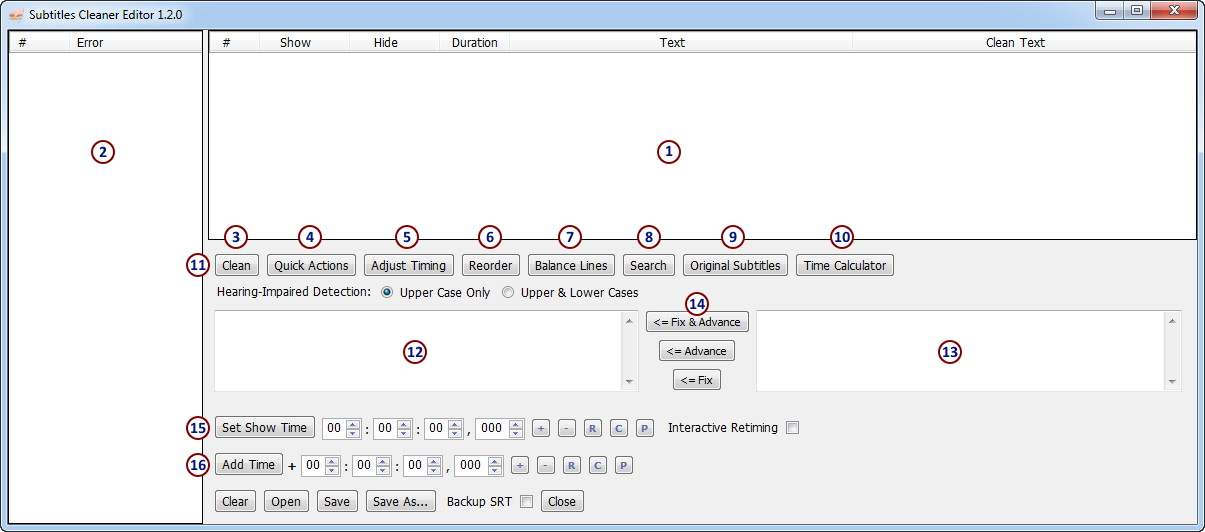
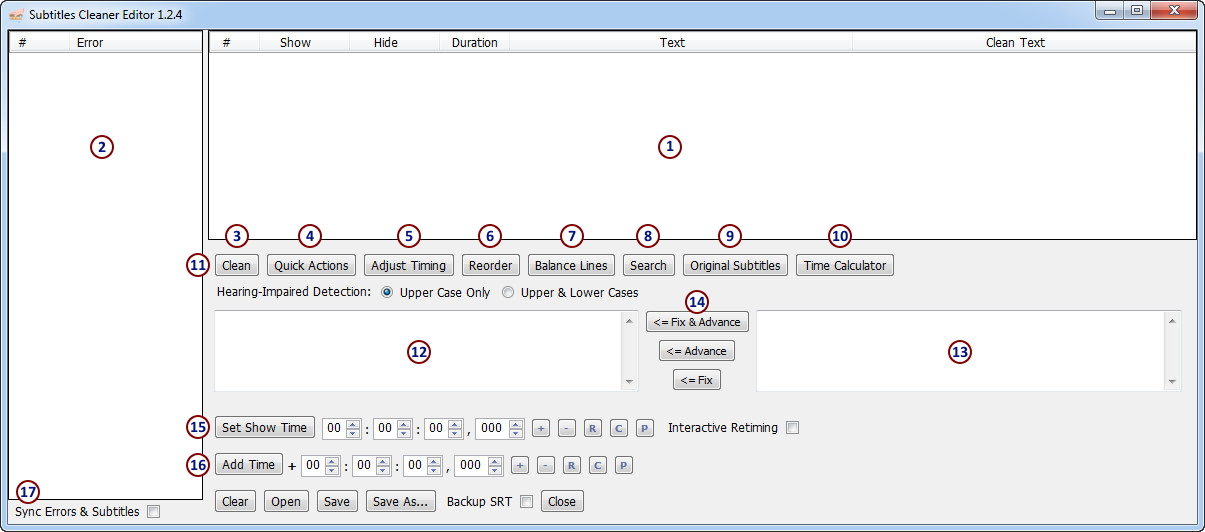
add Sync Errors & Subtitles

diff --git a/SubtitlesCleanerEditor/SubtitlesCleanerEditorForm.cs b/SubtitlesCleanerEditor/SubtitlesCleanerEditorForm.cs
@@ -328,6 +328,19 @@ namespace SubtitlesCleanerEditor
             SelectGVRow(row);
         }
 
+        private void SelectErrorRowByNum(int num)
+        {
+            foreach (DataGridViewRow row in lstErrors.Rows)
+            {
+                ErrorRow errorRow = row.DataBoundItem as ErrorRow;
+                if (errorRow.Num == num)
+                {
+                    SelectGVRow(row);
+                    break;
+                }
+            }
+        }
+
         private EditorRow GetEditorRowAt(int index)
         {
             DataGridViewRow row = lstEditor.Rows[index];
@@ -367,6 +380,39 @@ namespace SubtitlesCleanerEditor
             DataGridViewRow row = GetSelectedErrorGVRow();
             if (row != null)
                 return row.DataBoundItem as ErrorRow;
+            return null;
+        }
+
+        private ErrorRow SelectClosestErrorRow(int num)
+        {
+            foreach (DataGridViewRow row in lstErrors.Rows)
+            {
+                ErrorRow errorRow = row.DataBoundItem as ErrorRow;
+                if (errorRow.Num == num)
+                {
+                    SelectGVRow(row);
+                    return errorRow;
+                }
+                else if (errorRow.Num > num)
+                {
+                    SelectGVRow(row);
+                    return errorRow;
+                }
+            }
+
+            return SelectFirstErrorRow();
+        }
+
+        private ErrorRow SelectFirstErrorRow()
+        {
+            if (lstErrors.Rows != null && lstErrors.Rows.Count > 0)
+            {
+                DataGridViewRow row = lstErrors.Rows[0];
+                ErrorRow errorRow = row.DataBoundItem as ErrorRow;
+                SelectGVRow(row);
+                return errorRow;
+            }
+
             return null;
         }
 
@@ -521,6 +567,9 @@ namespace SubtitlesCleanerEditor
                 previousSelectedRow.DefaultCellStyle.Font = new Font("Tahoma", 9F, FontStyle.Regular);
             if (CurrentSelectedRow != null)
                 CurrentSelectedRow.DefaultCellStyle.Font = new Font("Tahoma", 8F, FontStyle.Bold);
+
+            if (chkSyncErrorsAndSubtitles.Checked)
+                SyncErrorsAndSubtitles(editorRow);
         }
 
         private void lstErrors_SelectionChanged(object sender, EventArgs e)
@@ -536,6 +585,43 @@ namespace SubtitlesCleanerEditor
                 previousErrorSelectedRow.DefaultCellStyle.Font = new Font("Tahoma", 9F, FontStyle.Regular);
             if (CurrentErrorSelectedRow != null)
                 CurrentErrorSelectedRow.DefaultCellStyle.Font = new Font("Tahoma", 8F, FontStyle.Bold);
+
+            if (chkSyncErrorsAndSubtitles.Checked)
+                SyncErrorsAndSubtitles(GetSelectedErrorRow());
+        }
+
+        #endregion
+
+        #region Sync Errors And Subtitles
+
+        private void SyncErrorsAndSubtitles(EditorRow editorRow)
+        {
+            if (editorRow == null)
+                return;
+
+            int num = editorRow.Num;
+
+            ErrorRow errorRow = GetSelectedErrorRow();
+            if (errorRow != null && errorRow.Num == num)
+                return;
+
+            SelectErrorRowByNum(num);
+        }
+
+        private void SyncErrorsAndSubtitles(ErrorRow errorRow)
+        {
+            if (errorRow == null)
+                return;
+
+            int num = errorRow.Num;
+
+            EditorRow editorRow = GetSelectedEditorRow();
+            if (editorRow != null && editorRow.Num == num)
+                return;
+
+            int index = num - 1;
+            if (0 <= index && index <= lstEditor.Rows.Count - 1)
+                SelectEditorRow(index);
         }
 
         #endregion
@@ -686,10 +772,8 @@ namespace SubtitlesCleanerEditor
         {
             if (lstErrors.CurrentRow.Selected)
             {
-                ErrorRow selectedErrorRow = GetSelectedErrorRow();
-                if (selectedErrorRow == null)
-                    return;
-                SelectEditorRow(selectedErrorRow.Num - 1);
+                ErrorRow errorRow = GetSelectedErrorRow();
+                SyncErrorsAndSubtitles(errorRow);
             }
         }
 
@@ -701,49 +785,7 @@ namespace SubtitlesCleanerEditor
         private void SelectErrorRowFromEditorRow(int rowIndex)
         {
             EditorRow editorRow = GetEditorRowAt(rowIndex);
-
-            foreach (DataGridViewRow row in lstErrors.Rows)
-            {
-                ErrorRow errorRow = row.DataBoundItem as ErrorRow;
-                if (errorRow.Num == editorRow.Num)
-                {
-                    SelectGVRow(row);
-                    break;
-                }
-            }
-        }
-
-        private ErrorRow SelectClosestErrorRow(int num)
-        {
-            foreach (DataGridViewRow row in lstErrors.Rows)
-            {
-                ErrorRow errorRow = row.DataBoundItem as ErrorRow;
-                if (errorRow.Num == num)
-                {
-                    SelectGVRow(row);
-                    return errorRow;
-                }
-                else if (errorRow.Num > num)
-                {
-                    SelectGVRow(row);
-                    return errorRow;
-                }
-            }
-
-            return SelectFirstErrorRow();
-        }
-
-        private ErrorRow SelectFirstErrorRow()
-        {
-            if (lstErrors.Rows != null && lstErrors.Rows.Count > 0)
-            {
-                DataGridViewRow row = lstErrors.Rows[0];
-                ErrorRow errorRow = row.DataBoundItem as ErrorRow;
-                SelectGVRow(row);
-                return errorRow;
-            }
-
-            return null;
+            SyncErrorsAndSubtitles(editorRow);
         }
 
         #endregion
@@ -1580,16 +1622,7 @@ namespace SubtitlesCleanerEditor
                     if (0 <= index && index <= lstEditor.Rows.Count - 1)
                     {
                         SelectEditorRow(index);
-
-                        foreach (DataGridViewRow row in lstErrors.Rows)
-                        {
-                            ErrorRow errorRow = row.DataBoundItem as ErrorRow;
-                            if (errorRow.Num == num)
-                            {
-                                SelectGVRow(row);
-                                break;
-                            }
-                        }
+                        SelectErrorRowByNum(num);
                     }
                 }
             }

diff --git a/SubtitlesCleanerEditor/SubtitlesCleanerEditorForm.Designer.cs b/SubtitlesCleanerEditor/SubtitlesCleanerEditorForm.Designer.cs
@@ -46,6 +46,8 @@
             this.contextMenuStripErrors = new System.Windows.Forms.ContextMenuStrip(this.components);
             this.fixErrorToolStripMenuItem = new System.Windows.Forms.ToolStripMenuItem();
             this.fixAllErrorsToolStripMenuItem = new System.Windows.Forms.ToolStripMenuItem();
+            this.flowLayoutPanel7 = new System.Windows.Forms.FlowLayoutPanel();
+            this.chkSyncErrorsAndSubtitles = new System.Windows.Forms.CheckBox();
             this.splitContainer2 = new System.Windows.Forms.SplitContainer();
             this.lstEditor = new System.Windows.Forms.DataGridView();
             this.ColumnNum = new System.Windows.Forms.DataGridViewTextBoxColumn();
@@ -103,6 +105,7 @@
             this.splitContainer1.SuspendLayout();
             ((System.ComponentModel.ISupportInitialize)(this.lstErrors)).BeginInit();
             this.contextMenuStripErrors.SuspendLayout();
+            this.flowLayoutPanel7.SuspendLayout();
             ((System.ComponentModel.ISupportInitialize)(this.splitContainer2)).BeginInit();
             this.splitContainer2.Panel1.SuspendLayout();
             this.splitContainer2.Panel2.SuspendLayout();
@@ -129,6 +132,7 @@
             // splitContainer1.Panel1
             // 
             this.splitContainer1.Panel1.Controls.Add(this.lstErrors);
+            this.splitContainer1.Panel1.Controls.Add(this.flowLayoutPanel7);
             // 
             // splitContainer1.Panel2
             // 
@@ -157,7 +161,7 @@
             this.lstErrors.ReadOnly = true;
             this.lstErrors.RowHeadersVisible = false;
             this.lstErrors.SelectionMode = System.Windows.Forms.DataGridViewSelectionMode.FullRowSelect;
-            this.lstErrors.Size = new System.Drawing.Size(195, 494);
+            this.lstErrors.Size = new System.Drawing.Size(195, 470);
             this.lstErrors.TabIndex = 0;
             this.lstErrors.CellMouseDoubleClick += new System.Windows.Forms.DataGridViewCellMouseEventHandler(this.lstErrors_CellMouseDoubleClick);
             this.lstErrors.ColumnHeaderMouseClick += new System.Windows.Forms.DataGridViewCellMouseEventHandler(this.lstErrors_ColumnHeaderMouseClick);
@@ -208,6 +212,28 @@
             this.fixAllErrorsToolStripMenuItem.Size = new System.Drawing.Size(113, 22);
             this.fixAllErrorsToolStripMenuItem.Text = "Fix All Errors";
             this.fixAllErrorsToolStripMenuItem.Click += new System.EventHandler(this.fixAllErrorsToolStripMenuItem_Click);
+            // 
+            // flowLayoutPanel7
+            // 
+            this.flowLayoutPanel7.AutoSize = true;
+            this.flowLayoutPanel7.AutoSizeMode = System.Windows.Forms.AutoSizeMode.GrowAndShrink;
+            this.flowLayoutPanel7.Controls.Add(this.chkSyncErrorsAndSubtitles);
+            this.flowLayoutPanel7.Dock = System.Windows.Forms.DockStyle.Bottom;
+            this.flowLayoutPanel7.Location = new System.Drawing.Point(0, 470);
+            this.flowLayoutPanel7.Name = "flowLayoutPanel7";
+            this.flowLayoutPanel7.Size = new System.Drawing.Size(195, 24);
+            this.flowLayoutPanel7.TabIndex = 8;
+            // 
+            // chkSyncErrorsAndSubtitles
+            // 
+            this.chkSyncErrorsAndSubtitles.AutoSize = true;
+            this.chkSyncErrorsAndSubtitles.CheckAlign = System.Drawing.ContentAlignment.MiddleRight;
+            this.chkSyncErrorsAndSubtitles.Location = new System.Drawing.Point(3, 3);
+            this.chkSyncErrorsAndSubtitles.Name = "chkSyncErrorsAndSubtitles";
+            this.chkSyncErrorsAndSubtitles.Size = new System.Drawing.Size(150, 18);
+            this.chkSyncErrorsAndSubtitles.TabIndex = 7;
+            this.chkSyncErrorsAndSubtitles.Text = "Sync Errors && Subtitles";
+            this.chkSyncErrorsAndSubtitles.UseVisualStyleBackColor = true;
             // 
             // splitContainer2
             // 
@@ -905,11 +931,14 @@
             this.DragEnter += new System.Windows.Forms.DragEventHandler(this.SubtitlesCleanerEditorForm_DragEnter);
             this.KeyDown += new System.Windows.Forms.KeyEventHandler(this.SubtitlesCleanerEditorForm_KeyDown);
             this.splitContainer1.Panel1.ResumeLayout(false);
+            this.splitContainer1.Panel1.PerformLayout();
             this.splitContainer1.Panel2.ResumeLayout(false);
             ((System.ComponentModel.ISupportInitialize)(this.splitContainer1)).EndInit();
             this.splitContainer1.ResumeLayout(false);
             ((System.ComponentModel.ISupportInitialize)(this.lstErrors)).EndInit();
             this.contextMenuStripErrors.ResumeLayout(false);
+            this.flowLayoutPanel7.ResumeLayout(false);
+            this.flowLayoutPanel7.PerformLayout();
             this.splitContainer2.Panel1.ResumeLayout(false);
             this.splitContainer2.Panel2.ResumeLayout(false);
             this.splitContainer2.Panel2.PerformLayout();
@@ -995,6 +1024,8 @@
         private System.Windows.Forms.ToolStripMenuItem copyCleanSubtitleToolStripMenuItem;
         private System.Windows.Forms.ToolStripMenuItem copyCleanTextToolStripMenuItem;
         private System.Windows.Forms.Button btnQuickActions;
+        private System.Windows.Forms.CheckBox chkSyncErrorsAndSubtitles;
+        private System.Windows.Forms.FlowLayoutPanel flowLayoutPanel7;
     }
 }
 

diff --git a/README.md b/README.md
@@ -48,6 +48,8 @@ This program is not, and was not meant to be, a comprehensive subtitles editor.
 
 16. Add Time starting from the selected subtitle. Time can be positive or negative. The time sign is clickable and changes between `+` and `-`.
 
+17. Sync Errors & Subtitles. When checked, clicking on an error or a subtitle will also focus on the other one.
+
 ## Subtitles Cleaner Command
 
 ### Clean
